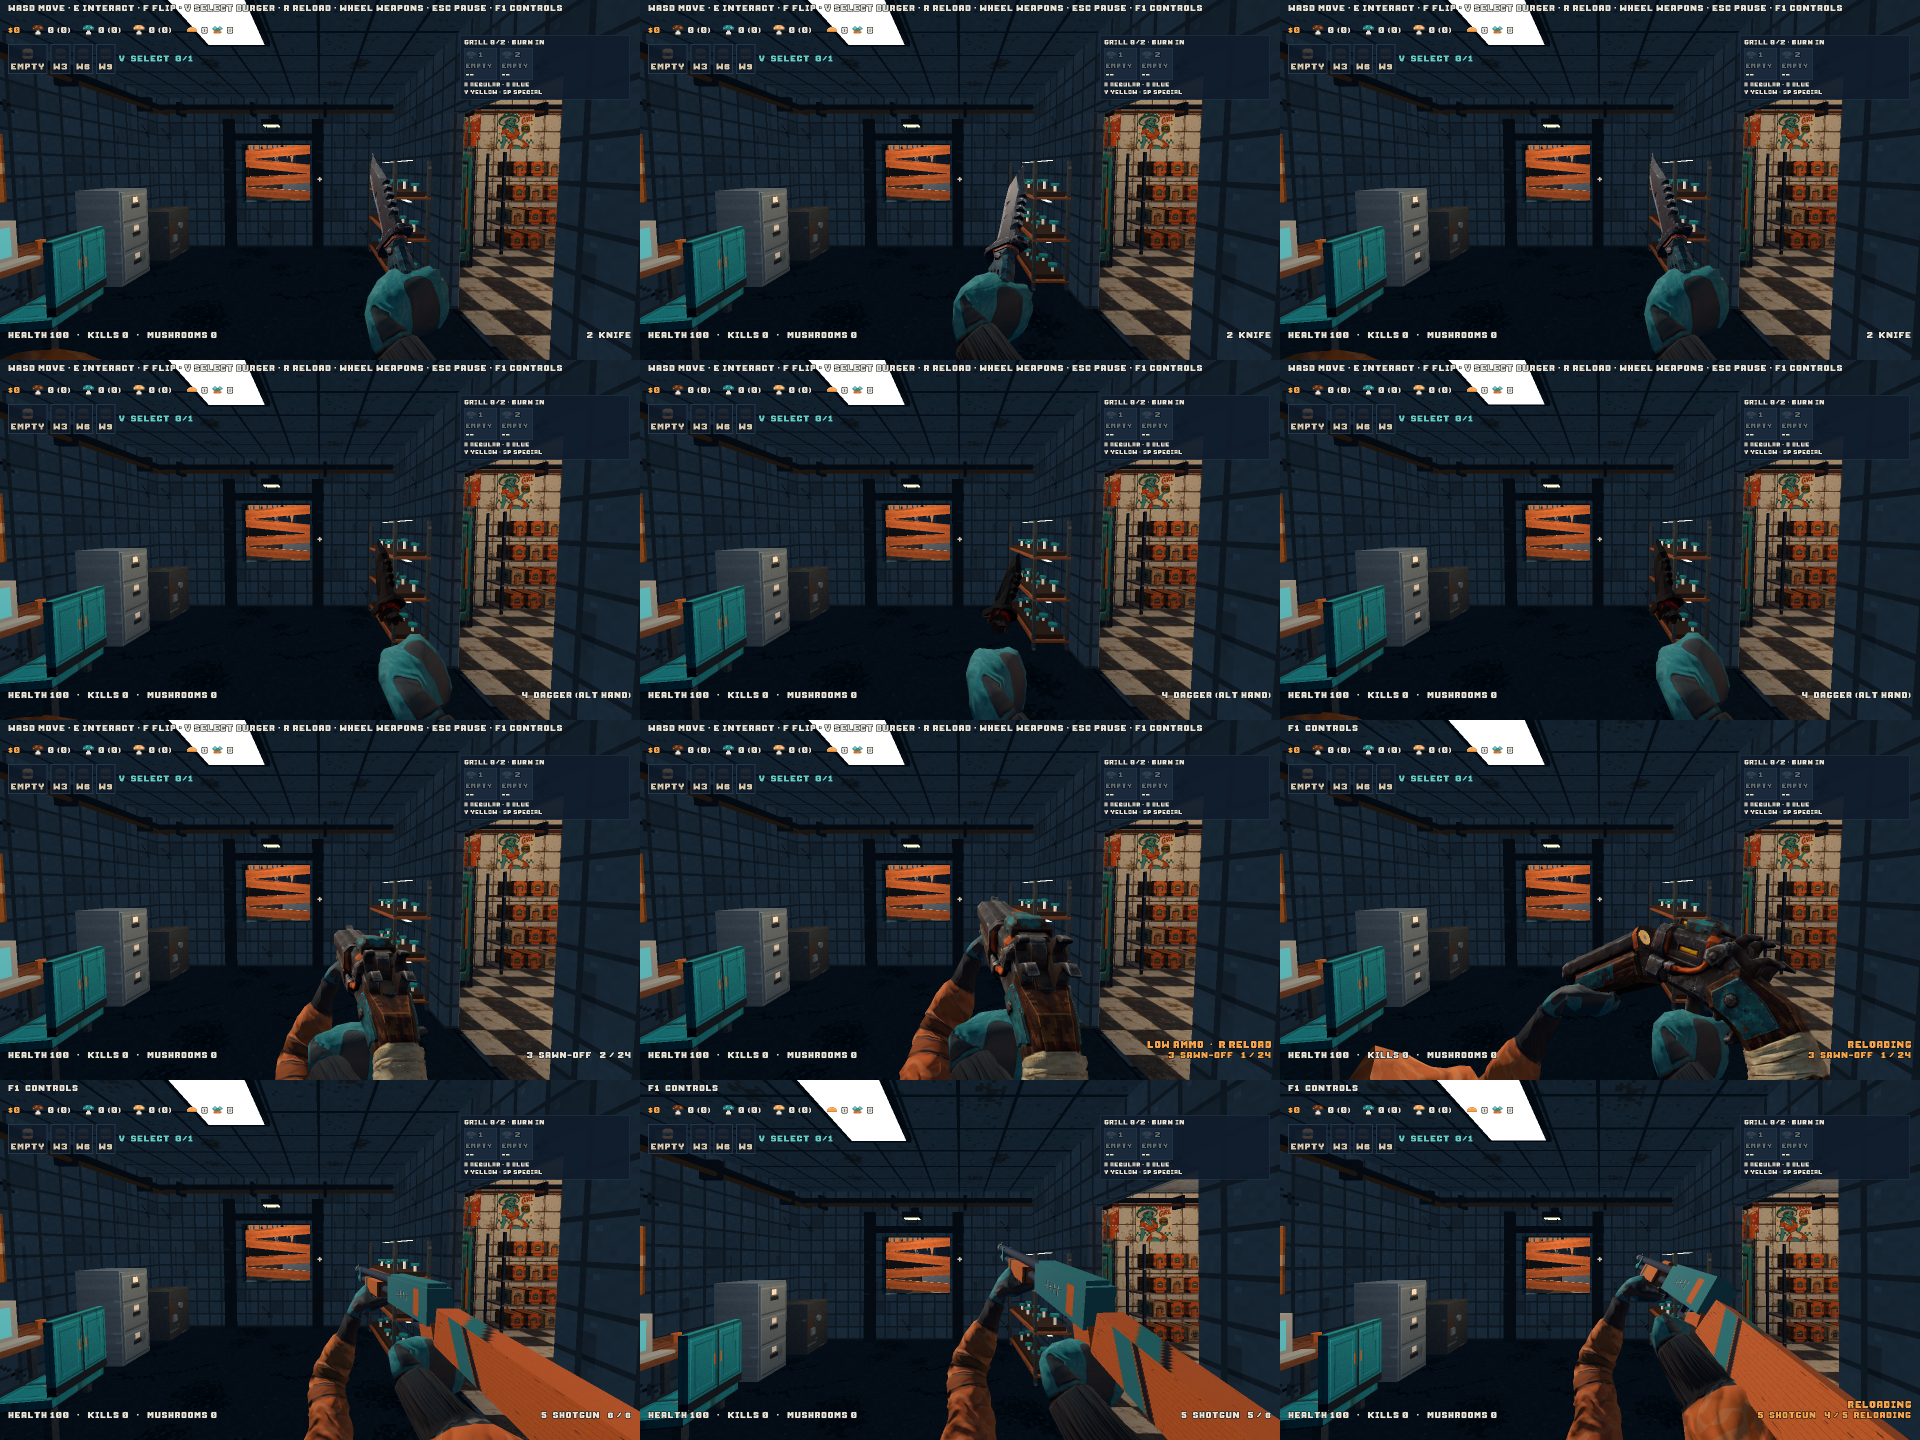
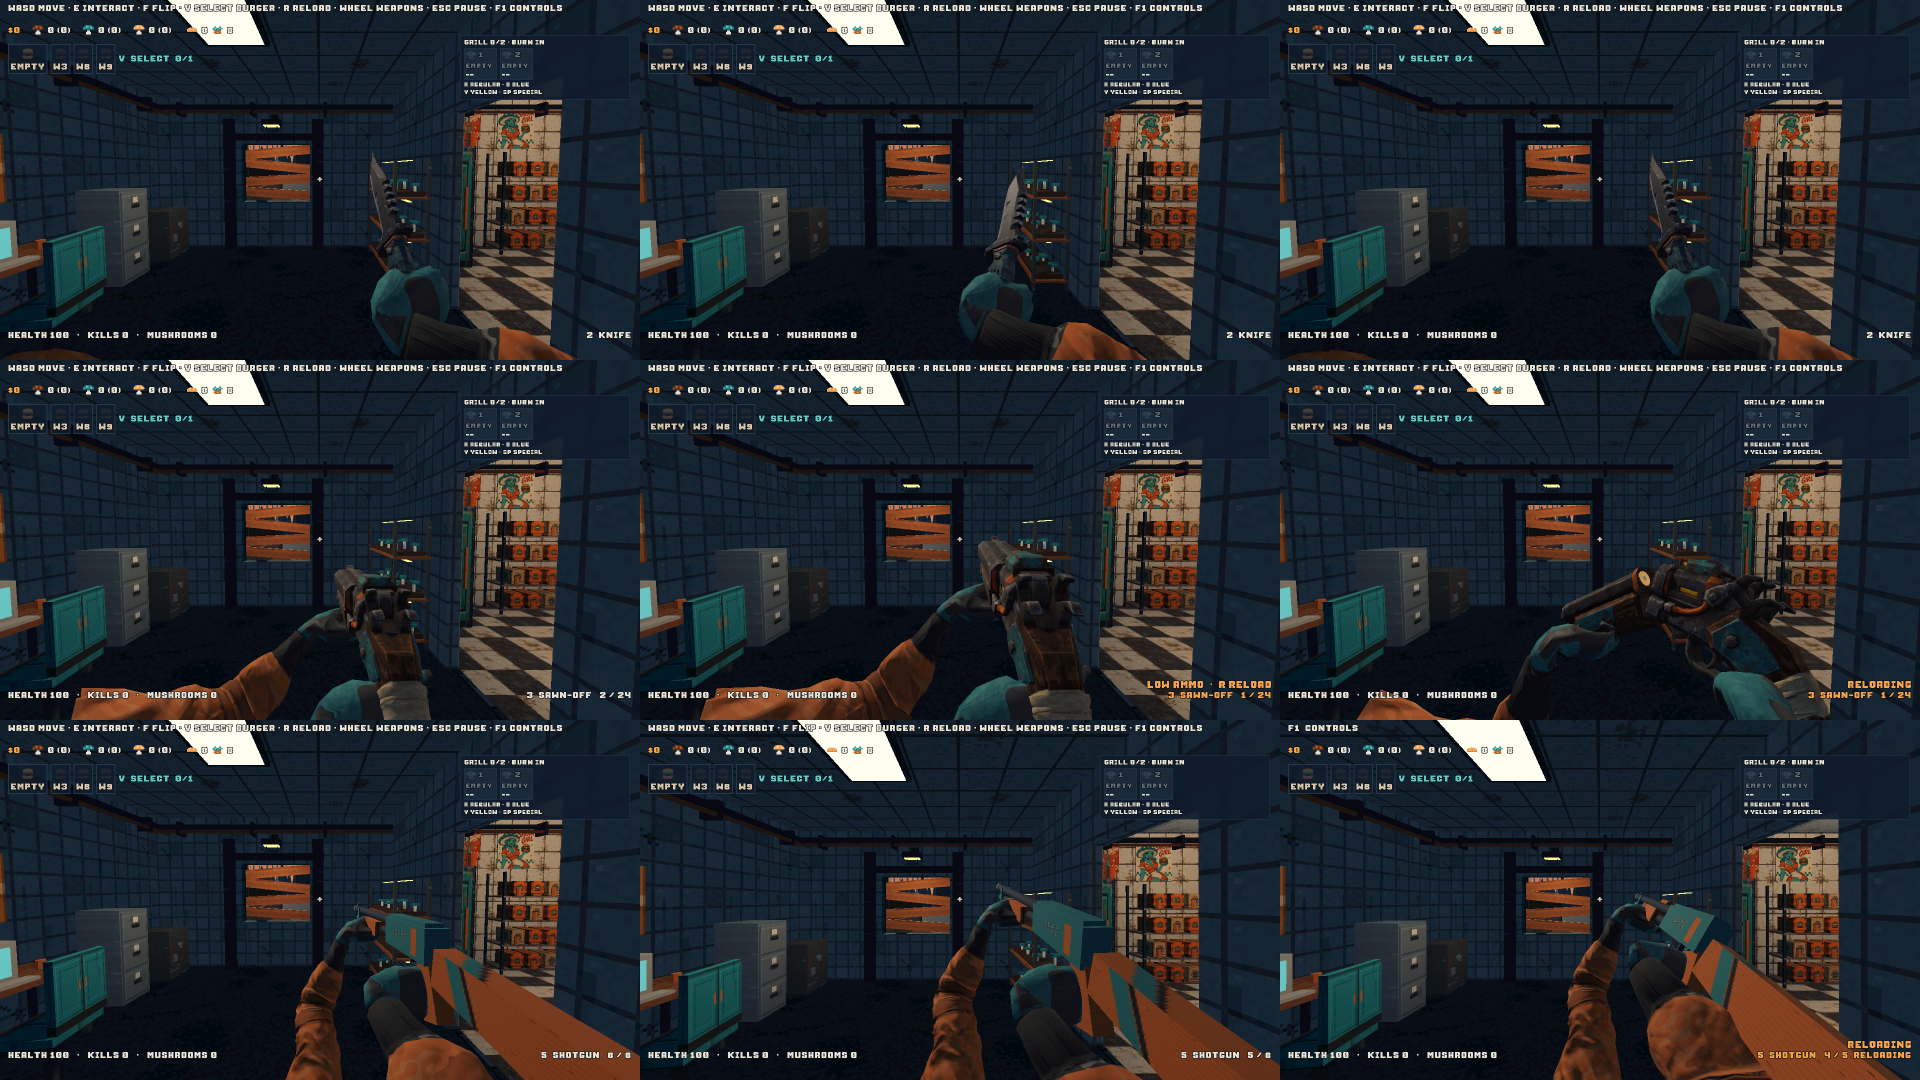
Align knife forearm and refit both shotgun grips
Blend support/loading fits, cover full reloads, and fix Vulkan grip capture sheets. Import, validator, 43 suites and native render checks passed.

diff --git a/tools/fps_arms_fit.py b/tools/fps_arms_fit.py
@@ -117,9 +117,17 @@ def semantic_start(frames, weapon, side, aks_key):
 GRIPS = {
     # owner, after a look: roll the hand lightly round the grip so the fingers sit
     # a little right of centre: palm turned ~15 deg from forward-left towards forward
-    ('crop_duster', 'r'): {'knuckles': (0.0, -0.89, 0.45), 'palm': (-0.47, 0.0, -0.88),
-                           'centre': (0.122, -0.27, -0.33), 'reach': 0.02,
+    ('crop_duster', 'r'): {'knuckles': (0.0, -0.89, 0.45), 'palm': (-0.35, 0.0, -0.94),
+                           'centre': (0.122, -0.245, -0.33), 'reach': 0.02,
                            'scale': 1.25},   # FITS rig scale: the hand is that much bigger
+    # Place the palm on the actual narrow rear grip, not the old oversized glove.
+    ('pump', 'r'): {'knuckles': (0.0, -0.94, 0.34), 'palm': (-0.15, 0.0, -0.99),
+                    'centre': (0.230, -0.194, -0.466), 'reach': 0.022, 'scale': 1.25},
+    # Support grips use the runtime 1.25x hands too: the old ICP clouds were 1x.
+    ('pump', 'l'): {'knuckles': (0.0, 0.0, 1.0), 'palm': (0.0, 1.0, 0.0),
+                    'centre': (0.206, -0.115, -0.869), 'reach': -0.030, 'scale': 1.25},
+    ('crop_duster', 'l'): {'knuckles': (0.0, 0.0, 1.0), 'palm': (0.0, 1.0, 0.0),
+                           'centre': (0.090, -0.180, -0.670), 'reach': -0.030, 'scale': 1.25},
 }
 
 

diff --git a/docs/handover/WEAPON_HAND_PLACEMENT.md b/docs/handover/WEAPON_HAND_PLACEMENT.md
@@ -1,0 +1,47 @@
+# Knife and shotgun hand placement — 26 October 2026
+
+The survival knife's shared right shoulder is moved towards the screen-right
+edge, with a less downward elbow pole. Its hand socket, blade, slash/stab paths,
+damage and attack timings remain unchanged. The adjustment rotates the forearm's
+approach instead of moving the whole knife sideways or letting the wrist drift.
+Other weapon fits retain the default shoulder location.
+
+Both shotguns now use explicitly placed grip frames for both hands, solved at
+the runtime 1.25x rig size. The sawn-off rear hand sits higher and rolls slightly
+round its stock; the pump rear hand is fitted against the narrow grip rather than
+the older oversized glove. Both support palms sit beneath their fore-ends.
+
+The existing shell-loading hand targets were authored for a different grip.
+`loading_l` preserves their prior fit; weapon presentation code supplies
+`loading_weight` to smoothly blend between the corrected support fit and the
+loading fit. This is visual only: shell counts, sound events, weapon actions,
+damage, purchases and base animation timing are unchanged.
+
+## Reproduce the fit
+
+Export with `tools/fps_arms_fit_export.gd -- <directory>` and
+`tools/fps_arms_frames_export.gd -- <directory>`, then run
+`python tools/fps_arms_fit.py <directory>` (NumPy/SciPy required).
+The GRIPS table contains the four shotgun grip constraints. Copy only the
+corresponding solved entries into `FITS`; do not replace handgun fits with ICP
+results. Old hand nodes remain hidden IK targets. No generated model was edited.
+
+## Checks
+
+`fps_arms_test.gd` checks screen-right knife forearm entry, and follows both
+shotguns through complete reloads as well as recoil/attack/holster transitions.
+`capture_fps_arms.gd` shows idle/action/reload for knife and both shotguns.
+`capture_fps_arms_close.gd` now converts Vulkan readbacks to RGBA8 before building
+contact sheets (previously produced black sheets); its near clip and framing
+allow both hands to be inspected. `capture_hand_reload_fit.gd` captures the two
+sawn-off insertion phases and recovery, plus the pump's shell-loading phases.
+
+Previews: `fps_arms_knife.png`, `fps_arms_crop_duster.png`, `fps_arms_pump.png`,
+the corresponding `fps_arms_close_*.png`, and `hand_reload_fit.png`, all in
+`docs/previews/`.
+
+Verified: Godot 4.3 import, explicit script check-only, Python compile,
+validator and all 43 test suites passed. Native Vulkan mobile
+first-person and external close-ups of all three weapons, shell insertion
+contact sheet, kitchen, serving room, pistol, knife, inventory and pump
+captures were rendered and visually inspected.
